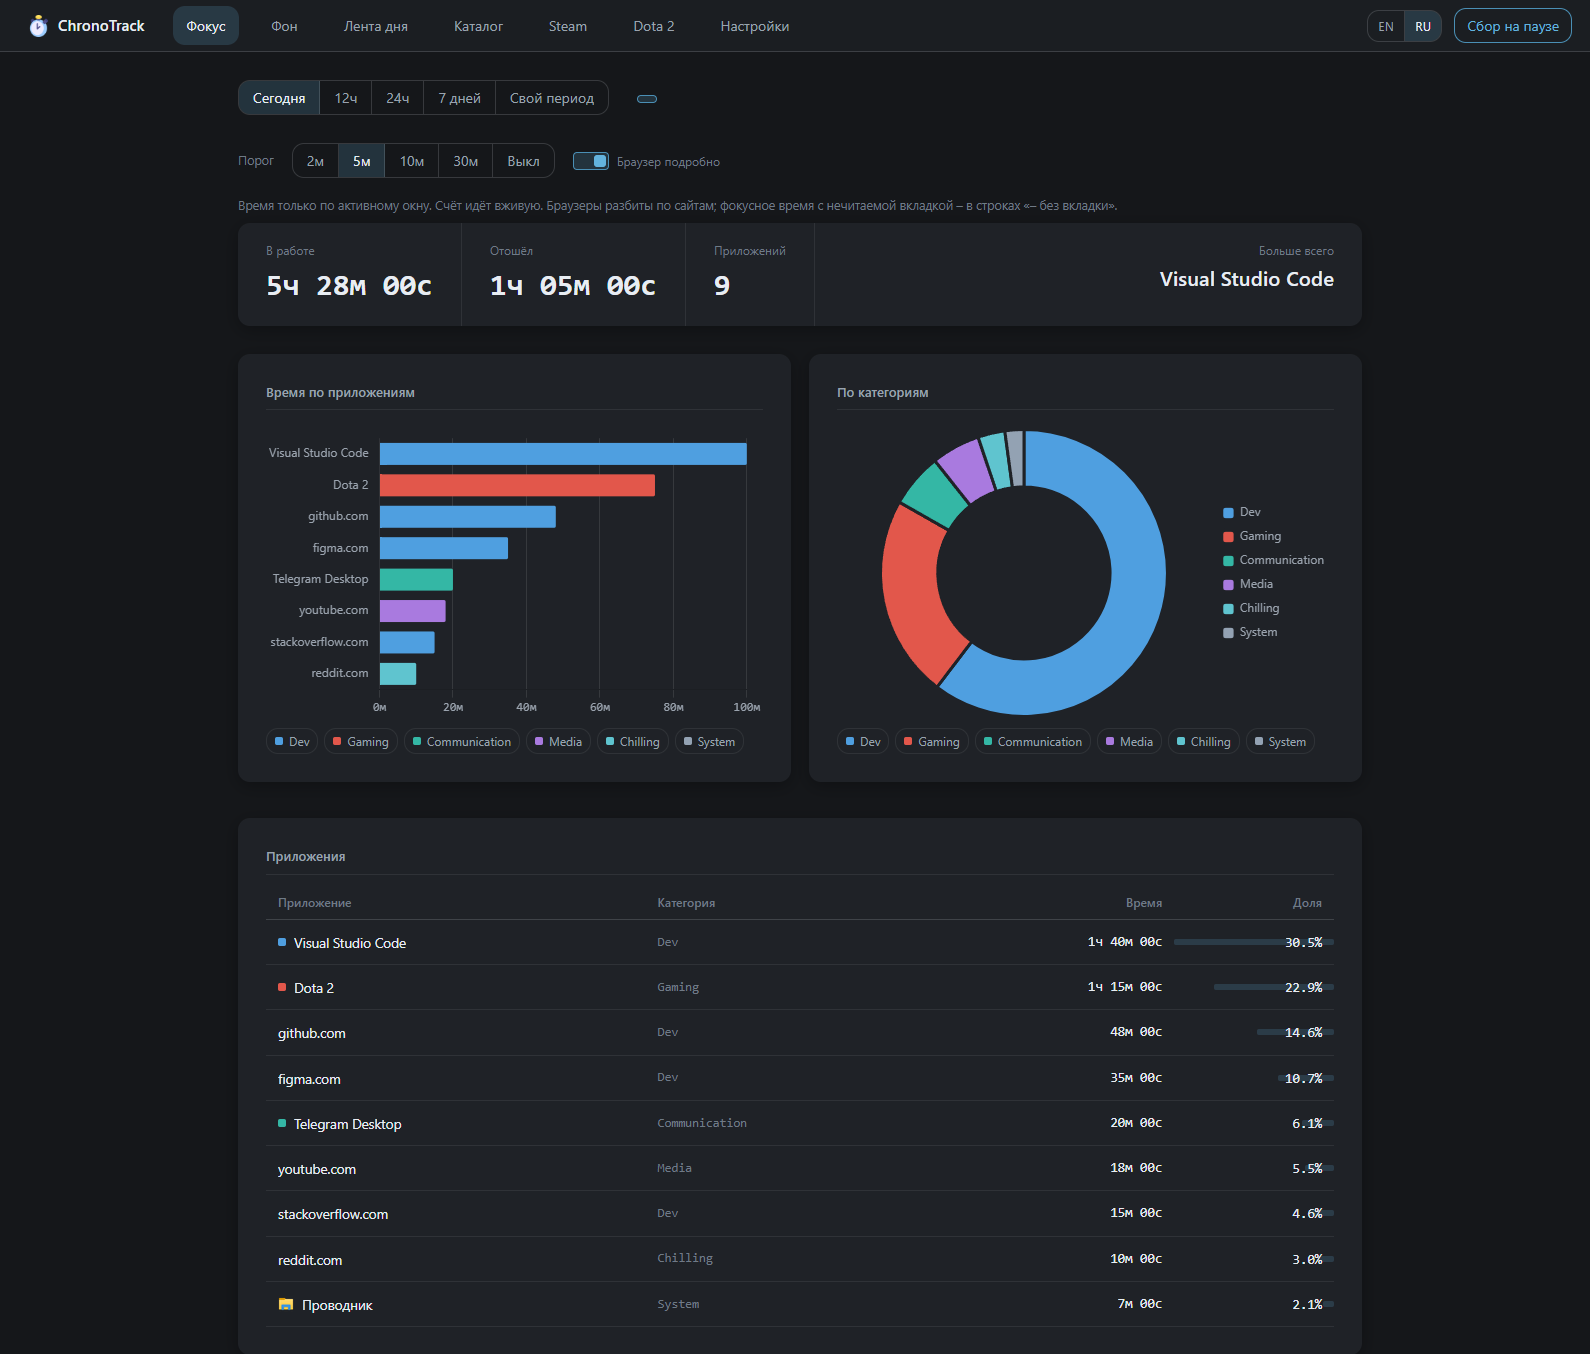
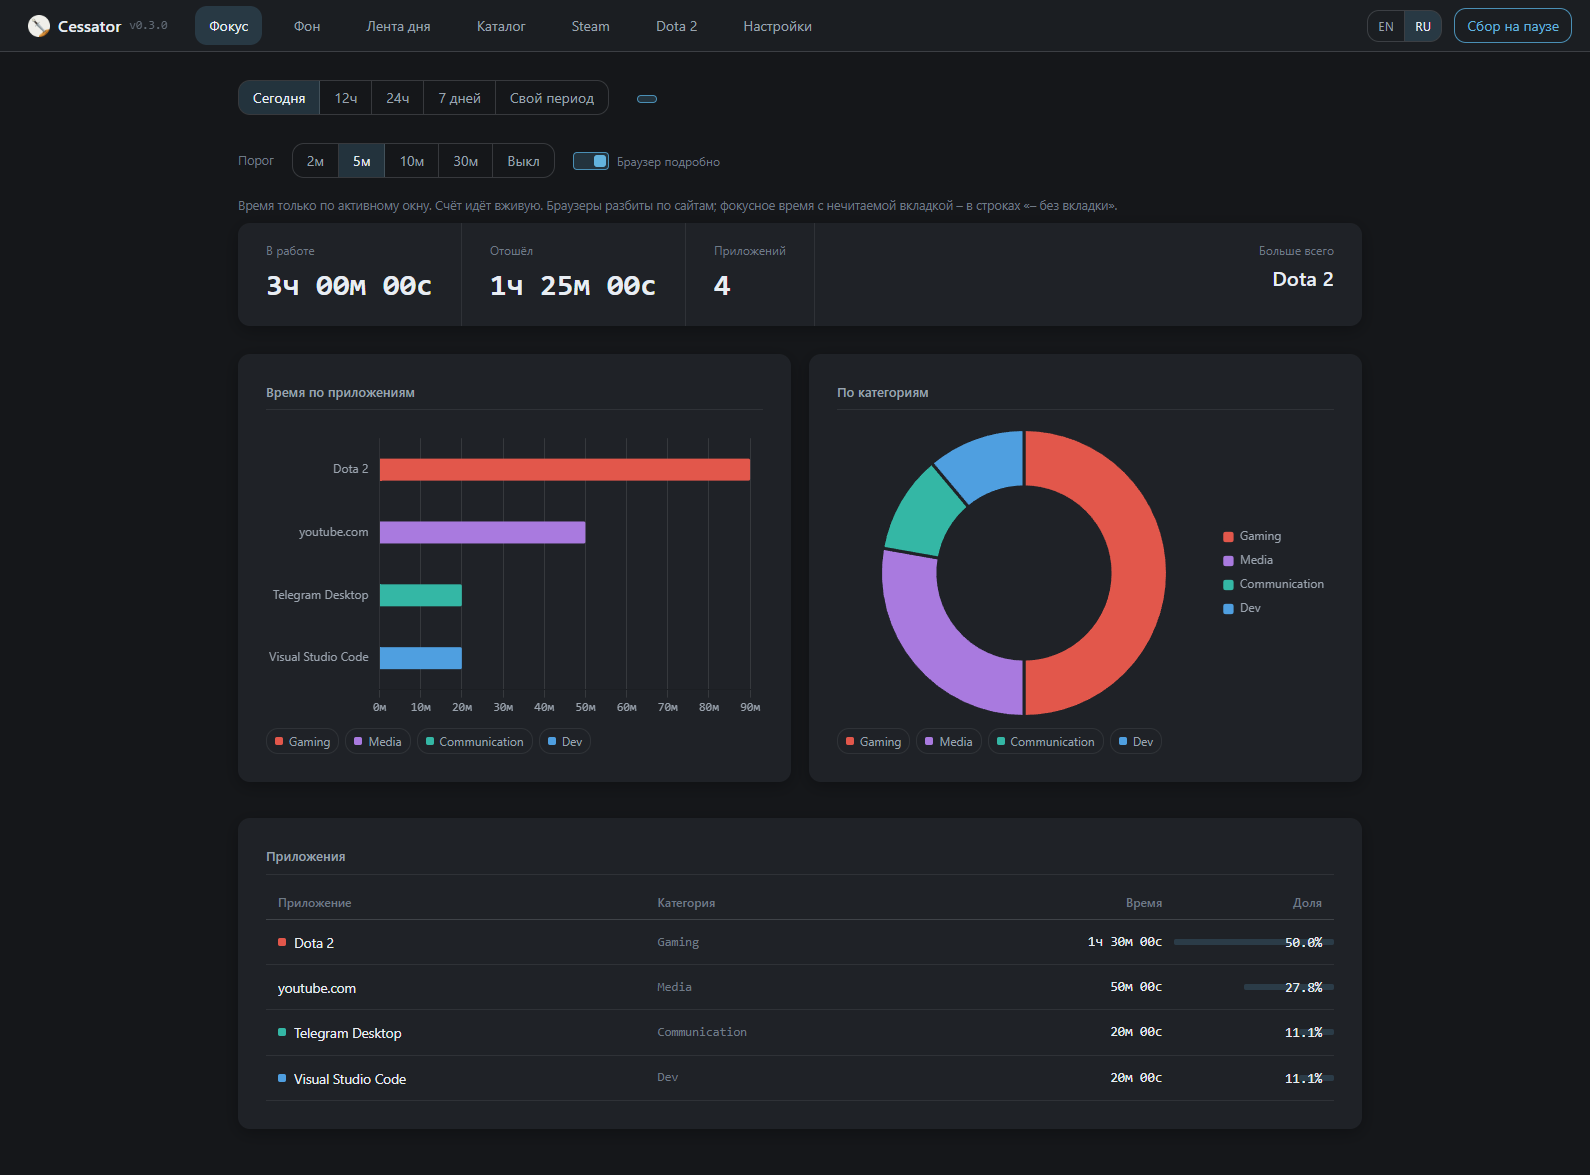
Скриншоты и README под Cessator: портабл-установка, свежие замеры

diff --git a/README.md b/README.md
@@ -111,15 +111,21 @@ PS Код не заливаю не потому что жадный, а прос
 
 ## Установка
 
-1. Скачайте `Cessator-Setup.exe` из [Releases](../../releases).
-2. Запустите установщик. Windows может предупредить о неизвестном
-   издателе (exe не подписан) - «Подробнее → Выполнить в любом случае».
-3. После установки в трее появится значок, а дашборд откроется на
-   `http://cessator.local` (или `http://127.0.0.1:8777`).
+1. Скачайте `Cessator.exe` из [Releases](../../releases) — портативный файл,
+   без установщика: положите куда удобно и запустите.
+2. При первом запуске программа спросит папку для локальной базы
+   (по умолчанию — `%LOCALAPPDATA%\Cessator`).
+3. Дашборд откроется сам на `http://127.0.0.1:8777`, значок появится в трее.
+4. Хотите адрес без порта — включите «Красивый адрес (cessator.local)»
+   в Настройках: Windows один раз спросит подтверждение администратора.
 
-Обновление - просто запустите новый `Setup.exe` поверх старого:
-данные, ключи и настройки сохраняются. Установленные версии ChronoTrack
-обновляются так же - статистика, ключи и автозапуск переезжают сами.
+Windows может предупредить о неизвестном издателе (exe не подписан) —
+«Подробнее → Выполнить в любом случае».
+
+Обновление - скачайте новый `Cessator.exe` и замените старый файл:
+данные, ключи и настройки живут отдельно от программы и не затираются.
+Прежние версии ChronoTrack подхватывают всё сами - статистика, ключи
+и автозапуск переезжают автоматически.
 
 ## Как это работает
 
